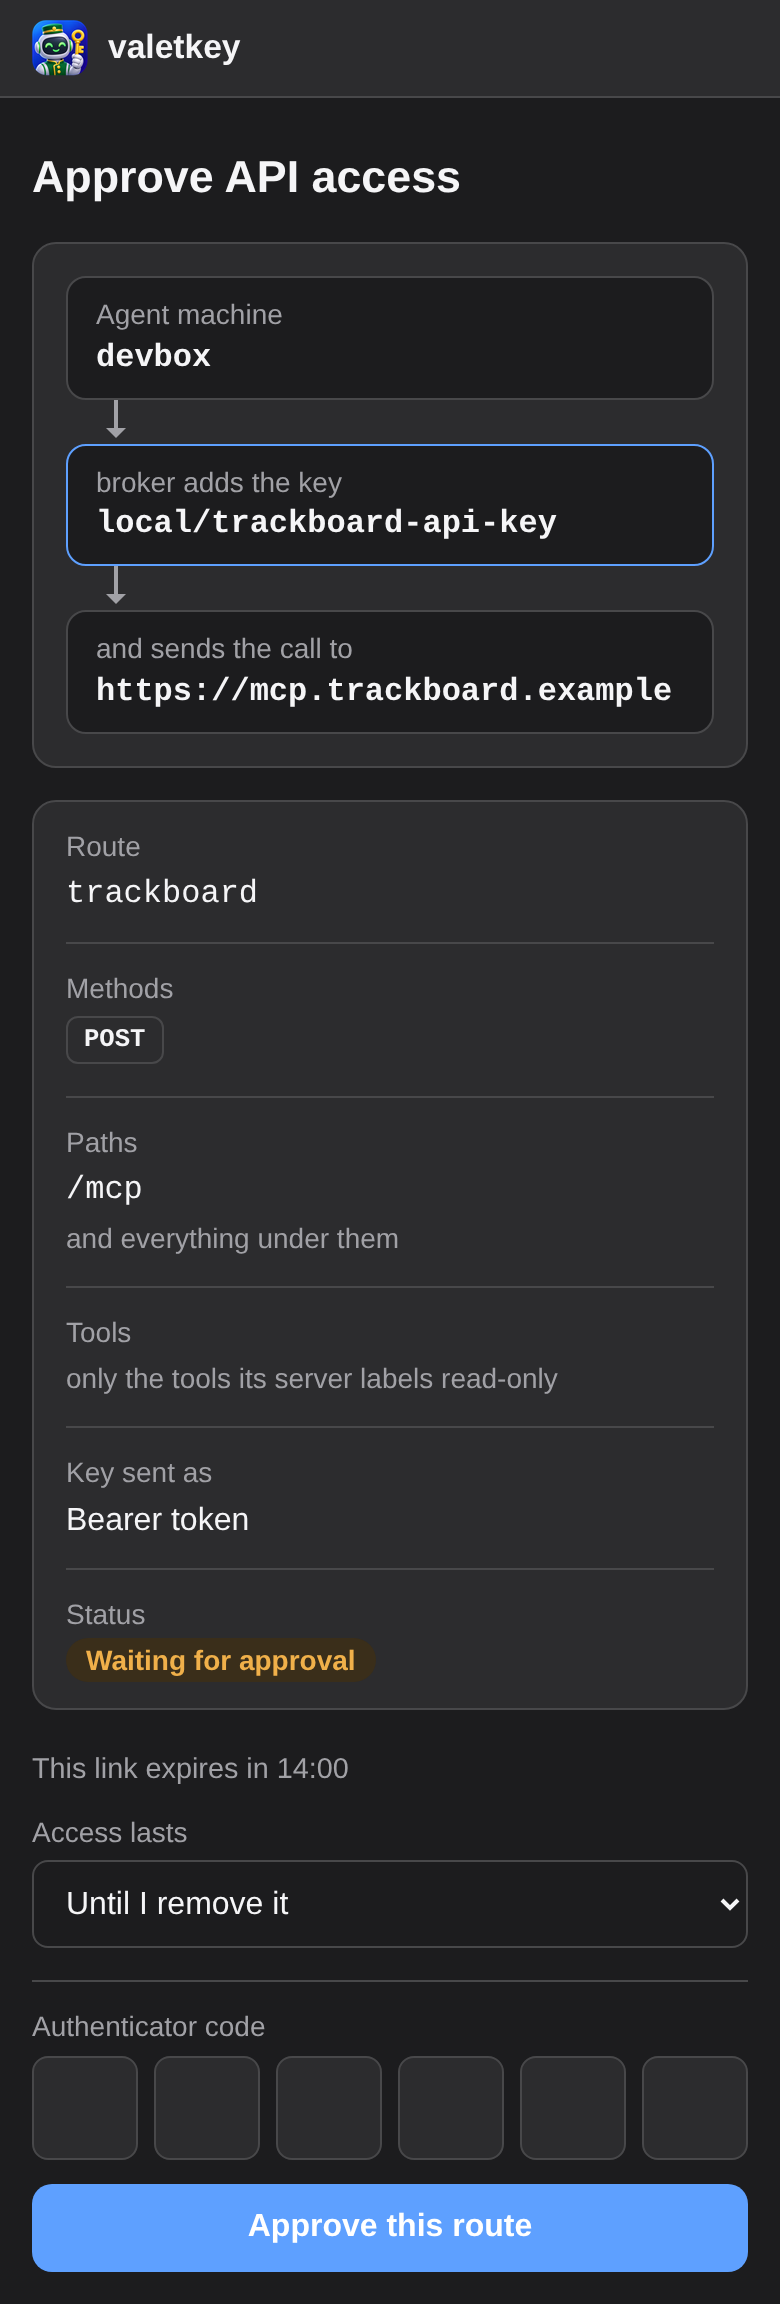
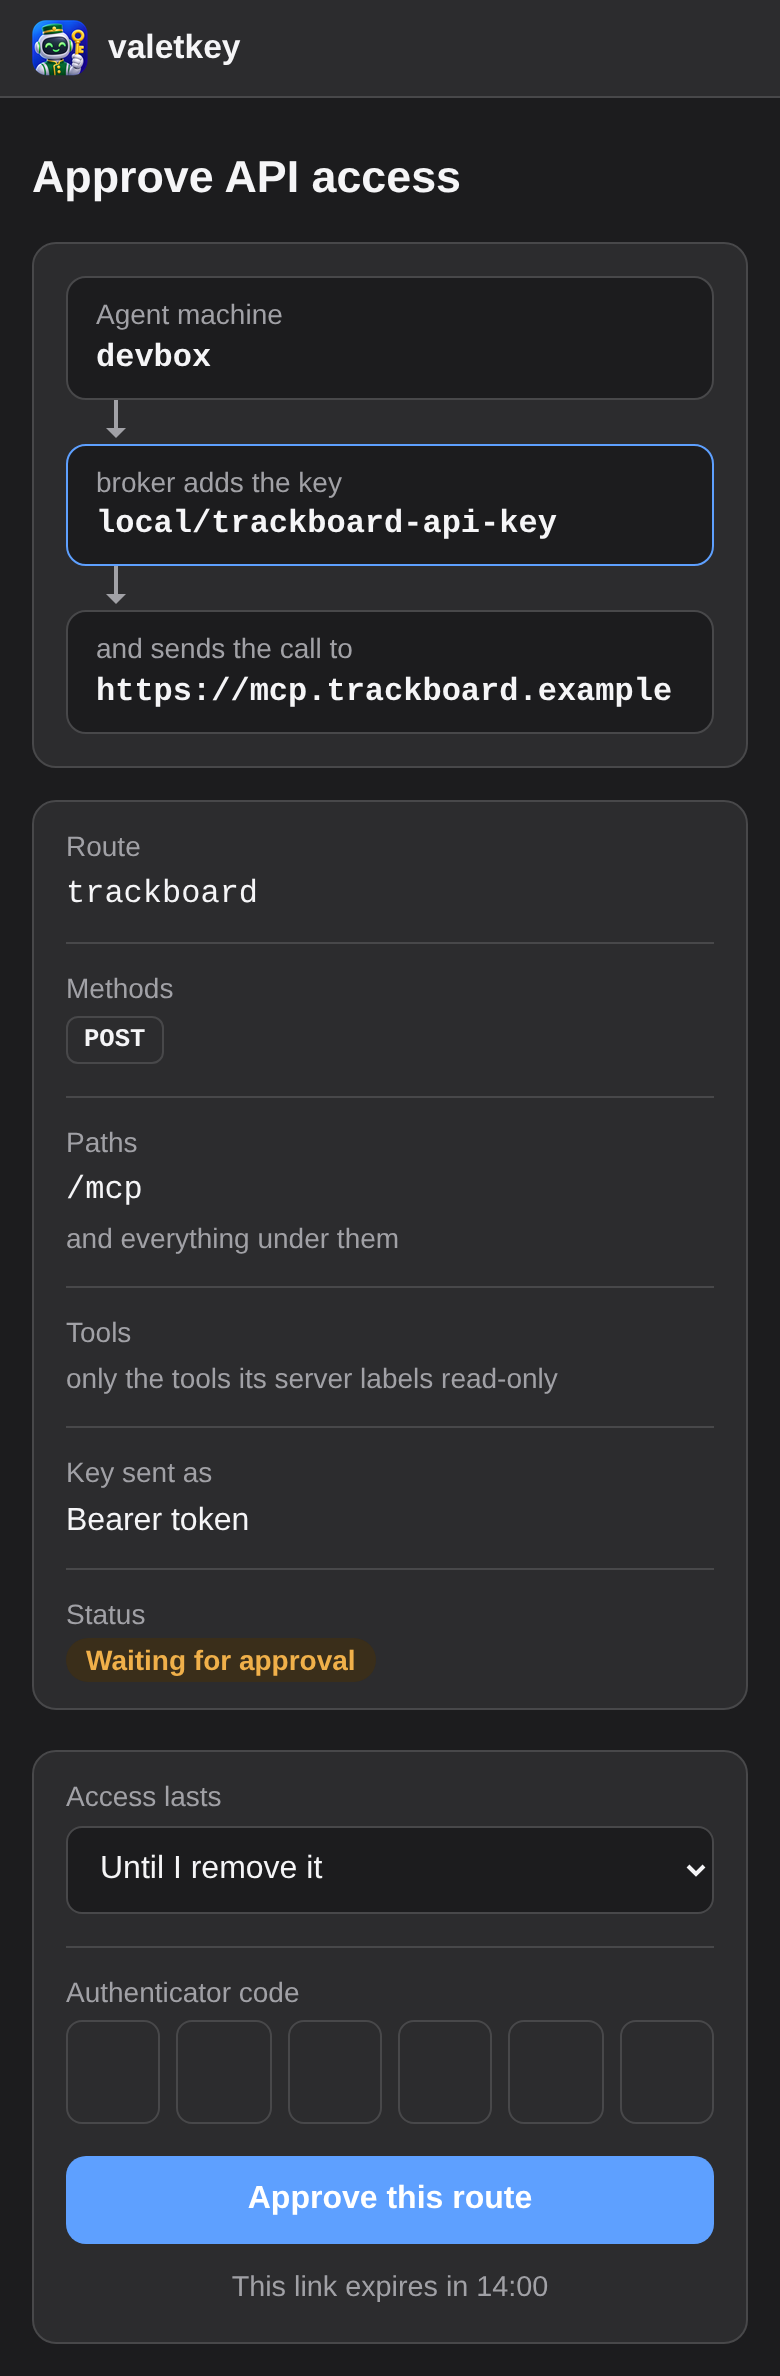
Approval and pairing: the form is a card at every width
On a phone the time limit, the code and the button now sit in a container like the rest
of the page. The diagram stays stacked until the two-column width, where a row fits.

diff --git a/broker/entry-page.html b/broker/entry-page.html
@@ -144,7 +144,7 @@
     .code-boxes { max-width: 22rem; }
   }
   /* Route approval opens with a small diagram: the machine that calls, the key the broker adds,
-     and where the call goes. Boxes stack on a phone and sit in a row from 600px. */
+     and where the call goes. Boxes stack, and sit in a row on the wide two-column page. */
   .flow { display: flex; flex-direction: column; margin: 0 0 16px; padding: 16px; background: var(--card);
           border: 1px solid var(--line); border-radius: 12px; }
   .flow > div { min-width: 0; padding: 8px 14px; background: var(--bg); border: 1px solid var(--line);
@@ -154,21 +154,19 @@
   .flow .to { position: relative; width: 2px; height: 18px; margin: 0 0 4px 24px; background: var(--muted); }
   .flow .to::after { content: ""; position: absolute; left: -4px; bottom: -1px; border: 5px solid transparent;
                      border-bottom: 0; border-top-color: var(--muted); }
-  @media (min-width: 600px) {
-    .flow { flex-direction: row; }
-    .flow .to { flex: 1 0 20px; max-width: 48px; height: 2px; margin: 0 4px 0 0; align-self: center; }
-    .flow .to::after { left: auto; right: -1px; bottom: auto; top: -4px; border: 5px solid transparent;
-                       border-right: 0; border-left-color: var(--muted); }
-  }
-  /* Approval and pairing. A line parts how long access lasts from the code that confirms it. From
-     600px the three controls share one width and one left edge. From 900px the page widens to two
-     columns: what is asked on the left, and on the right one panel with the time limit, the code
-     and the button, so the decision is in one place. */
-  .approve > form label { color: var(--muted); font-size: 0.875rem; }  /* as the labels in the table */
+  /* Approval and pairing. The form is a card at every width: its labels look like the table's, a
+     line parts how long access lasts from the code that confirms it, the controls fill the card
+     and the time left sits under the button. From 600px the card keeps a short width. From 900px
+     the page widens to two columns: what is asked on the left and the card on the right, so the
+     decision is in one place. */
+  .approve > form { display: flex; flex-direction: column; padding: 2px 16px 16px; background: var(--card);
+                    border: 1px solid var(--line); border-radius: 12px; }
+  .approve > form label { color: var(--muted); font-size: 0.875rem; }
   .approve > form select + label { margin-top: 16px; padding-top: 12px; border-top: 1px solid var(--line); }
-  @media (min-width: 600px) {
-    .approve > form select, .approve > form button.wide { width: 100%; max-width: 22rem; margin-left: 0; }
-  }
+  .approve > form select, .approve > form button.wide, .approve > form .code-boxes { width: 100%; max-width: none; }
+  .approve > form button.wide { margin: 16px 0 0; }
+  .approve > form .deadline { order: 1; text-align: center; }
+  @media (min-width: 600px) { .approve > form { max-width: 24rem; } }
   @supports selector(:has(*)) {
     @media (min-width: 900px) {
       main:has(> .approve), body:has(.approve) .top div { max-width: 60rem; }
@@ -177,12 +175,11 @@
       .approve > :first-child { grid-area: lead; margin: 0 0 20px; }
       .approve > p:first-child { font-size: 1.25rem; max-width: 46rem; }
       .approve > .spec, .approve > img { grid-area: what; margin: 0; }
-      .approve > form { grid-area: form; position: sticky; top: 16px; display: flex; flex-direction: column;
-                        padding: 2px 16px 16px; background: var(--card); border: 1px solid var(--line);
-                        border-radius: 12px; }
-      .approve > form select, .approve > form button.wide, .approve > form .code-boxes { max-width: none; }
-      .approve > form button.wide { margin-top: 16px; }
-      .approve > form .deadline { order: 1; text-align: center; }
+      .approve > form { grid-area: form; position: sticky; top: 16px; max-width: none; }
+      .flow { flex-direction: row; }
+      .flow .to { flex: 1 0 20px; max-width: 48px; height: 2px; margin: 0 4px 0 0; align-self: center; }
+      .flow .to::after { left: auto; right: -1px; bottom: auto; top: -4px; border: 5px solid transparent;
+                         border-right: 0; border-left-color: var(--muted); }
     }
   }
   /* While the value is being stored (the page swaps when the broker answers). */
